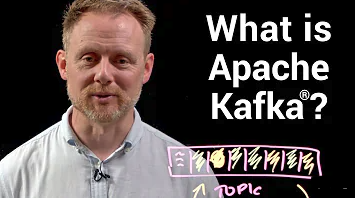
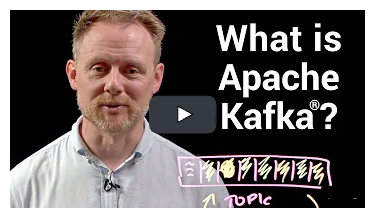
Updated start image to have a play button

diff --git a/quickstart.html b/quickstart.html
@@ -13,16 +13,13 @@
     iframe.allow="accelerometer; autoplay; encrypted-media; gyroscope; picture-in-picture";
     iframe.setAttribute('allowFullScreen', '');
     videoPlaceholder.parentNode.replaceChild(iframe, videoPlaceholder);
-    document.getElementById('instruct').style = 'display:none';
   }
 </script>
 <div class="content">
   <!--#include virtual="includes/_nav.htm" -->
     <div class="page-header">
       <h1 class="page-header-title">Apache Kafka Quickstart</h1>
-      <p class="page-header-text">Everything you need to know about Kafka in 10 minutes
-           <span id="instruct"> (click image to load video) </span>
-      </p>
+      <p class="page-header-text">Everything you need to know about Kafka in 10 minutes</p>
         <div class="page-header-video">
            <img id="video_placeholder" width="480" height="270" src="images/what_is_kafka.png" onclick="loadVideo()" style="cursor:pointer"/>
         </div>

diff --git a/intro.html b/intro.html
@@ -13,7 +13,6 @@
     iframe.allow="accelerometer; autoplay; encrypted-media; gyroscope; picture-in-picture";
     iframe.setAttribute('allowFullScreen', '');
     videoPlaceholder.parentNode.replaceChild(iframe, videoPlaceholder);
-    document.getElementById('instruct').style = 'display:none';
   }
 </script>
 <div class="content">
@@ -21,9 +20,7 @@
   <div class="right">
 		<div class="page-header">
       <h1 class="page-header-title">Introduction</h1>
-      <p class="page-header-text">Everything you need to know about Kafka in 10 minutes
-       <span id="instruct"> (click image to load video) </span>
-     </p>
+      <p class="page-header-text">Everything you need to know about Kafka in 10 minutes</p>
         <div class="page-header-video">
            <img id="video_placeholder" width="480" height="270" src="images/what_is_kafka.png" onclick="loadVideo()" style="cursor:pointer"/>
         </div>
